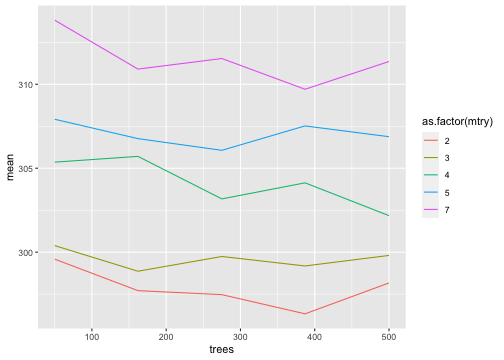
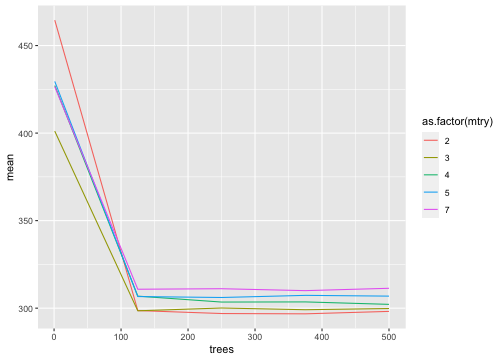
rf update 5

diff --git a/_site/slides/2021-11-02-rf.html b/_site/slides/2021-11-02-rf.html
@@ -555,7 +555,7 @@ penguin_folds &lt;- vfold_cv(penguin_train,
 
 ```r
 penguin_grid &lt;- grid_regular(mtry(range = c(2,7)),
-                             trees(range = c(50,500)),
+                             trees(range = c(1,500)),
                              levels = 5)
 
 penguin_grid
@@ -565,16 +565,16 @@ penguin_grid
 ## # A tibble: 25 × 2
 ##     mtry trees
 ##    &lt;int&gt; &lt;int&gt;
-##  1     2    50
-##  2     3    50
-##  3     4    50
-##  4     5    50
-##  5     7    50
-##  6     2   162
-##  7     3   162
-##  8     4   162
-##  9     5   162
-## 10     7   162
+##  1     2     1
+##  2     3     1
+##  3     4     1
+##  4     5     1
+##  5     7     1
+##  6     2   125
+##  7     3   125
+##  8     4   125
+##  9     5   125
+## 10     7   125
 ## # … with 15 more rows
 ```
 ]
@@ -639,7 +639,7 @@ penguin_rf_best
 ## 
 ## Main Arguments:
 ##   mtry = 2
-##   trees = 387
+##   trees = 375
 ## 
 ## Engine-Specific Arguments:
 ##   importance = permutation
@@ -672,18 +672,18 @@ penguin_rf_final
 ## Ranger result
 ## 
 ## Call:
-##  ranger::ranger(x = maybe_data_frame(x), y = y, mtry = min_cols(~2L,      x), num.trees = ~387L, importance = ~"permutation", num.threads = 1,      verbose = FALSE, seed = sample.int(10^5, 1)) 
+##  ranger::ranger(x = maybe_data_frame(x), y = y, mtry = min_cols(~2L,      x), num.trees = ~375L, importance = ~"permutation", num.threads = 1,      verbose = FALSE, seed = sample.int(10^5, 1)) 
 ## 
 ## Type:                             Regression 
-## Number of trees:                  387 
+## Number of trees:                  375 
 ## Sample size:                      249 
 ## Number of independent variables:  7 
 ## Mtry:                             2 
 ## Target node size:                 5 
 ## Variable importance mode:         permutation 
 ## Splitrule:                        variance 
-## OOB prediction error (MSE):       84057 
-## R squared (OOB):                  0.86361
+## OOB prediction error (MSE):       84149 
+## R squared (OOB):                  0.86346
 ```
 
 ---
@@ -717,6 +717,24 @@ penguin_rf_final %&gt;%
 
 ![](2021-11-02-rf_files/figure-html/unnamed-chunk-26-1.png)&lt;!-- --&gt;
 
+---
+
+## Model choices
+
+|  `\(\mbox{  }\)` 	| `\(\mbox{  }\)`	|
+|---------------------------------------------	|-------------------------------	|
+| * explanatory variable choice 	| * `\(k\)` ($k$-NN) 	|
+| * number of explanatory variables 	| * distance measure 	|
+| * functions/transformation of explanatory 	| * V (CV) 	|
+| * transformation of response 	| * CV `set.seed` 	|
+| * response:continuous vs. categorical 	| * `\(\alpha\)` prune 	|
+| * how missing data is dealt with 	| * maxdepth prune 	|
+| * train/test split (`set.seed`) 	| * prune or not 	|
+| * train/test proportion 	| * gini / entropy (split) 	|
+| * type of classification model 	| * \# trees / \# BS samples 	|
+| * use of cost complexity / parameter 	| * grid search etc. for tuning 	|
+| * majority / average prob (tree error rate) 	| * value(s) of `mtry` 	|
+| * accuracy vs sensitivity vs specificity 	| * OOB vs CV for tuning 	|
 
 ---
 

diff --git a/slides/2021-11-02-rf.html b/slides/2021-11-02-rf.html
@@ -555,7 +555,7 @@ penguin_folds &lt;- vfold_cv(penguin_train,
 
 ```r
 penguin_grid &lt;- grid_regular(mtry(range = c(2,7)),
-                             trees(range = c(50,500)),
+                             trees(range = c(1,500)),
                              levels = 5)
 
 penguin_grid
@@ -565,16 +565,16 @@ penguin_grid
 ## # A tibble: 25 × 2
 ##     mtry trees
 ##    &lt;int&gt; &lt;int&gt;
-##  1     2    50
-##  2     3    50
-##  3     4    50
-##  4     5    50
-##  5     7    50
-##  6     2   162
-##  7     3   162
-##  8     4   162
-##  9     5   162
-## 10     7   162
+##  1     2     1
+##  2     3     1
+##  3     4     1
+##  4     5     1
+##  5     7     1
+##  6     2   125
+##  7     3   125
+##  8     4   125
+##  9     5   125
+## 10     7   125
 ## # … with 15 more rows
 ```
 ]
@@ -639,7 +639,7 @@ penguin_rf_best
 ## 
 ## Main Arguments:
 ##   mtry = 2
-##   trees = 387
+##   trees = 375
 ## 
 ## Engine-Specific Arguments:
 ##   importance = permutation
@@ -672,18 +672,18 @@ penguin_rf_final
 ## Ranger result
 ## 
 ## Call:
-##  ranger::ranger(x = maybe_data_frame(x), y = y, mtry = min_cols(~2L,      x), num.trees = ~387L, importance = ~"permutation", num.threads = 1,      verbose = FALSE, seed = sample.int(10^5, 1)) 
+##  ranger::ranger(x = maybe_data_frame(x), y = y, mtry = min_cols(~2L,      x), num.trees = ~375L, importance = ~"permutation", num.threads = 1,      verbose = FALSE, seed = sample.int(10^5, 1)) 
 ## 
 ## Type:                             Regression 
-## Number of trees:                  387 
+## Number of trees:                  375 
 ## Sample size:                      249 
 ## Number of independent variables:  7 
 ## Mtry:                             2 
 ## Target node size:                 5 
 ## Variable importance mode:         permutation 
 ## Splitrule:                        variance 
-## OOB prediction error (MSE):       84057 
-## R squared (OOB):                  0.86361
+## OOB prediction error (MSE):       84149 
+## R squared (OOB):                  0.86346
 ```
 
 ---
@@ -717,6 +717,24 @@ penguin_rf_final %&gt;%
 
 ![](2021-11-02-rf_files/figure-html/unnamed-chunk-26-1.png)&lt;!-- --&gt;
 
+---
+
+## Model choices
+
+|  `\(\mbox{  }\)` 	| `\(\mbox{  }\)`	|
+|---------------------------------------------	|-------------------------------	|
+| * explanatory variable choice 	| * `\(k\)` ($k$-NN) 	|
+| * number of explanatory variables 	| * distance measure 	|
+| * functions/transformation of explanatory 	| * V (CV) 	|
+| * transformation of response 	| * CV `set.seed` 	|
+| * response:continuous vs. categorical 	| * `\(\alpha\)` prune 	|
+| * how missing data is dealt with 	| * maxdepth prune 	|
+| * train/test split (`set.seed`) 	| * prune or not 	|
+| * train/test proportion 	| * gini / entropy (split) 	|
+| * type of classification model 	| * \# trees / \# BS samples 	|
+| * use of cost complexity / parameter 	| * grid search etc. for tuning 	|
+| * majority / average prob (tree error rate) 	| * value(s) of `mtry` 	|
+| * accuracy vs sensitivity vs specificity 	| * OOB vs CV for tuning 	|
 
 ---
 
